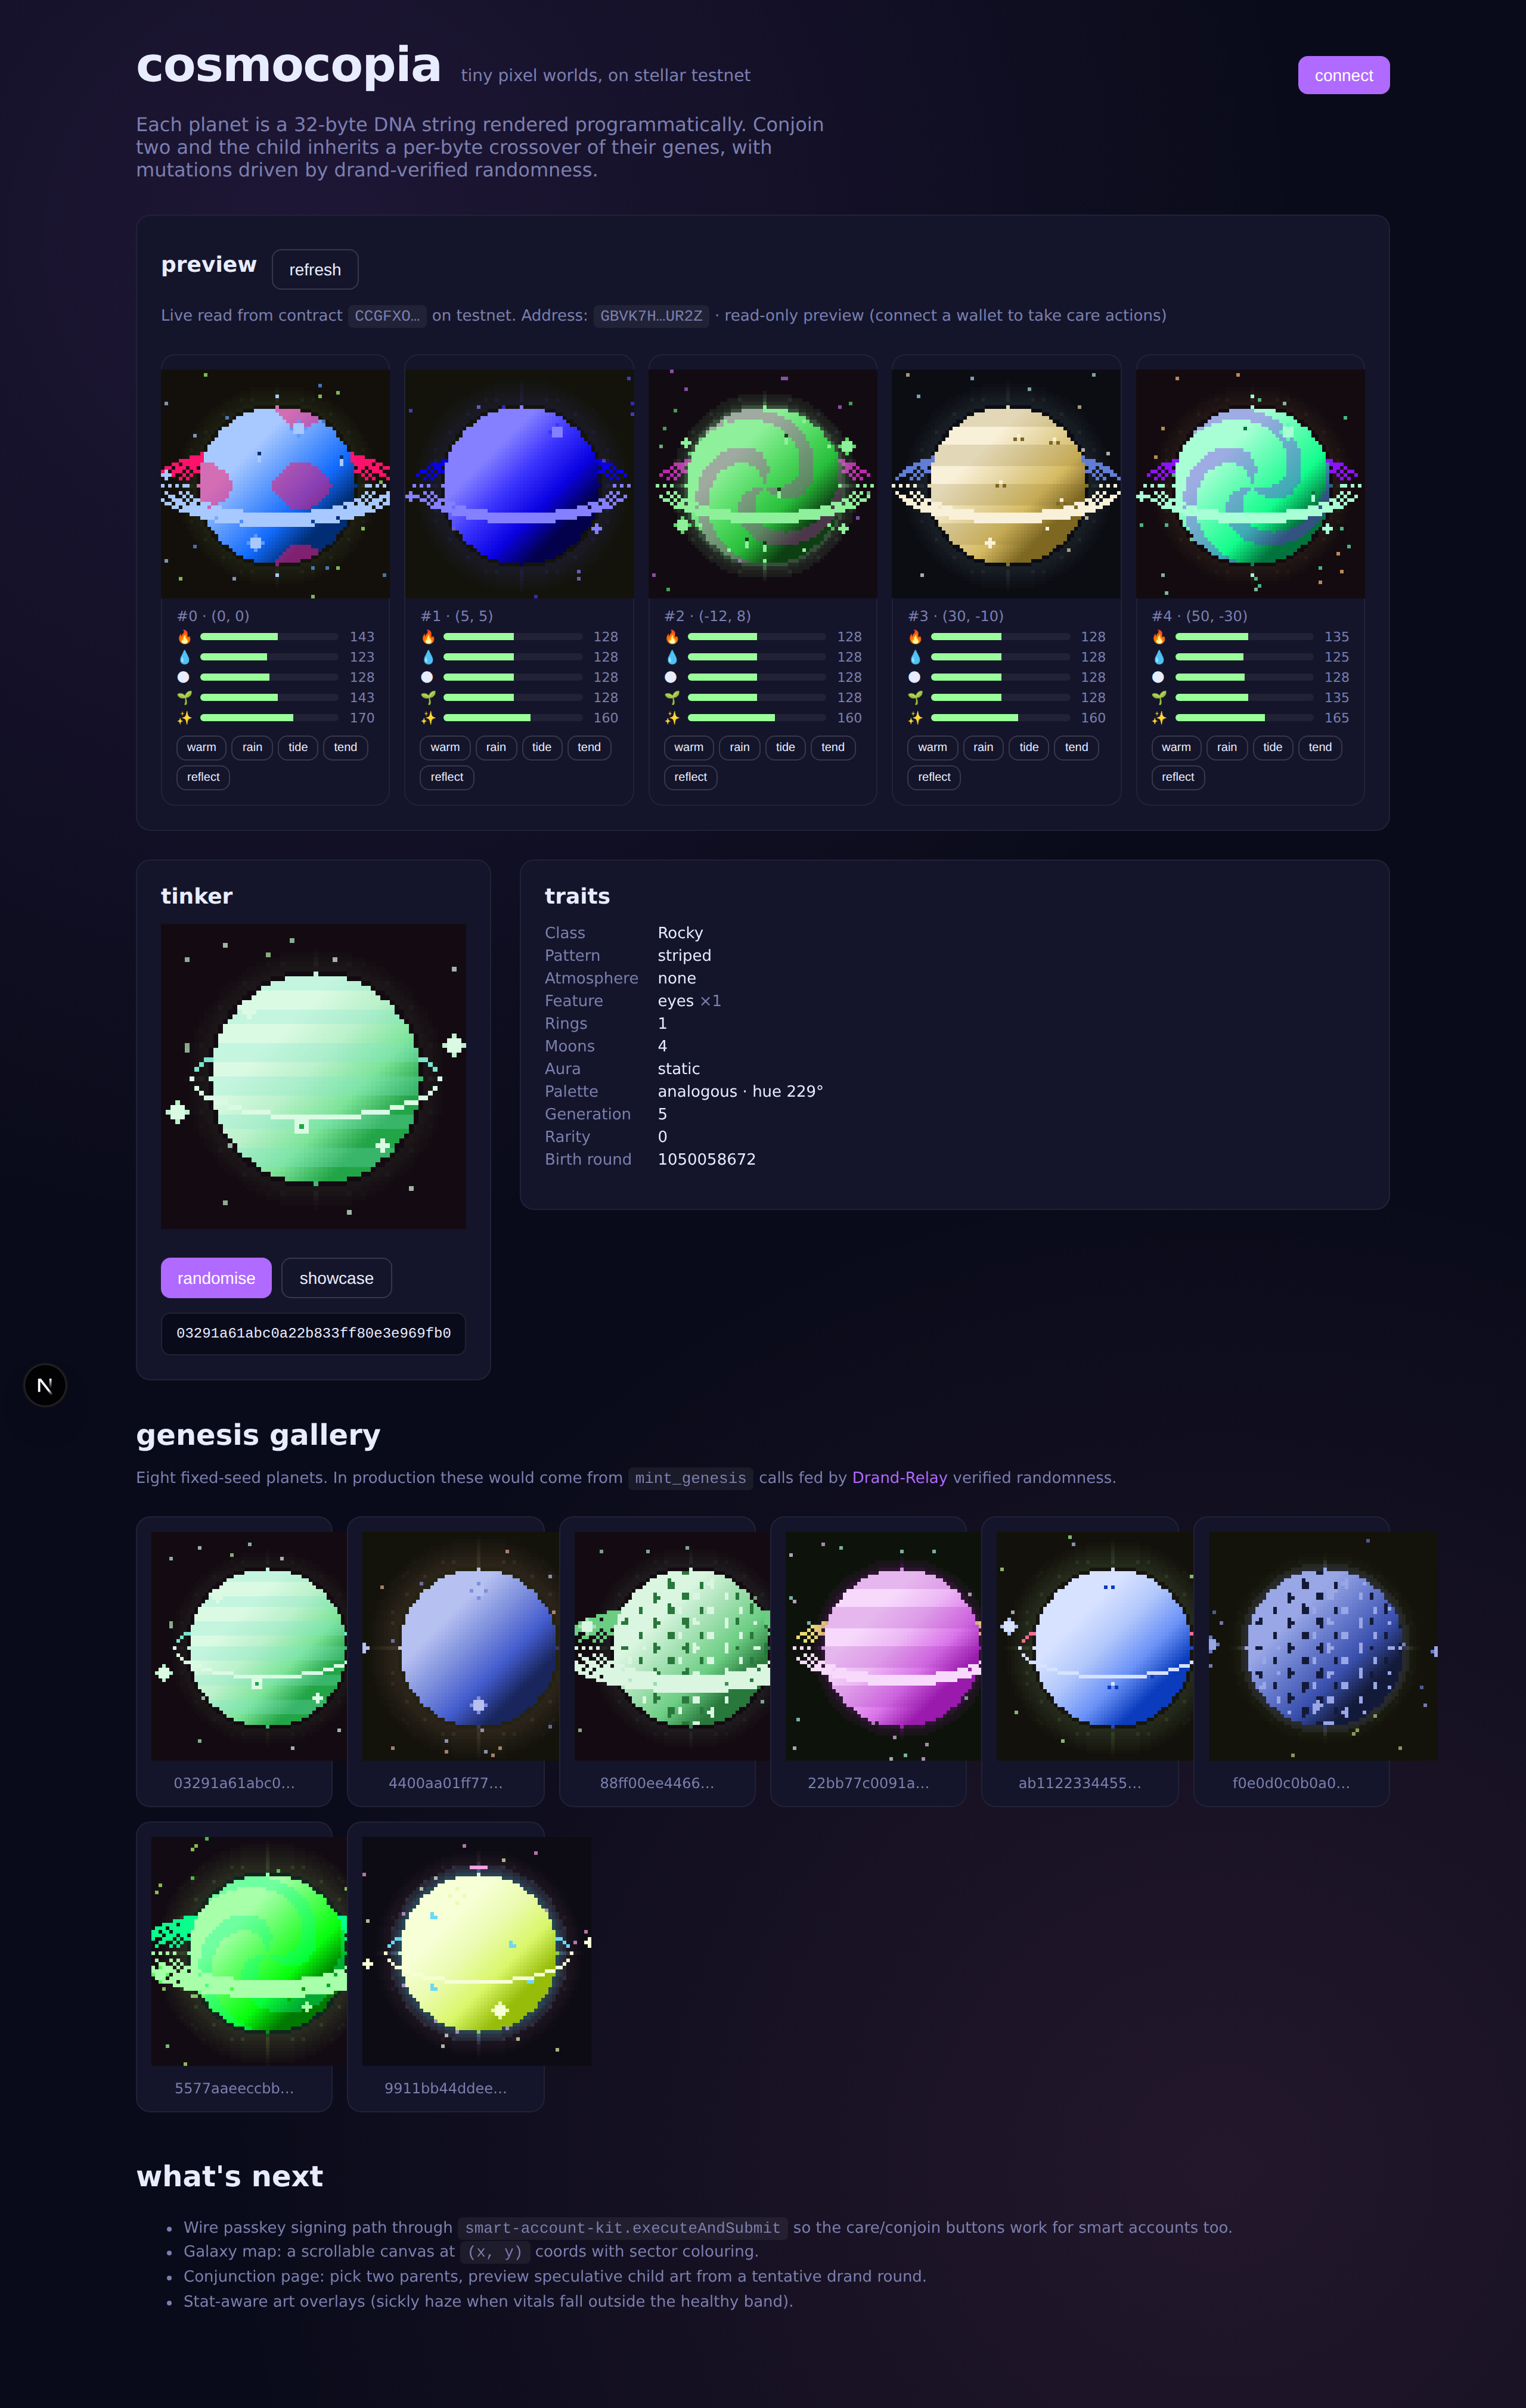
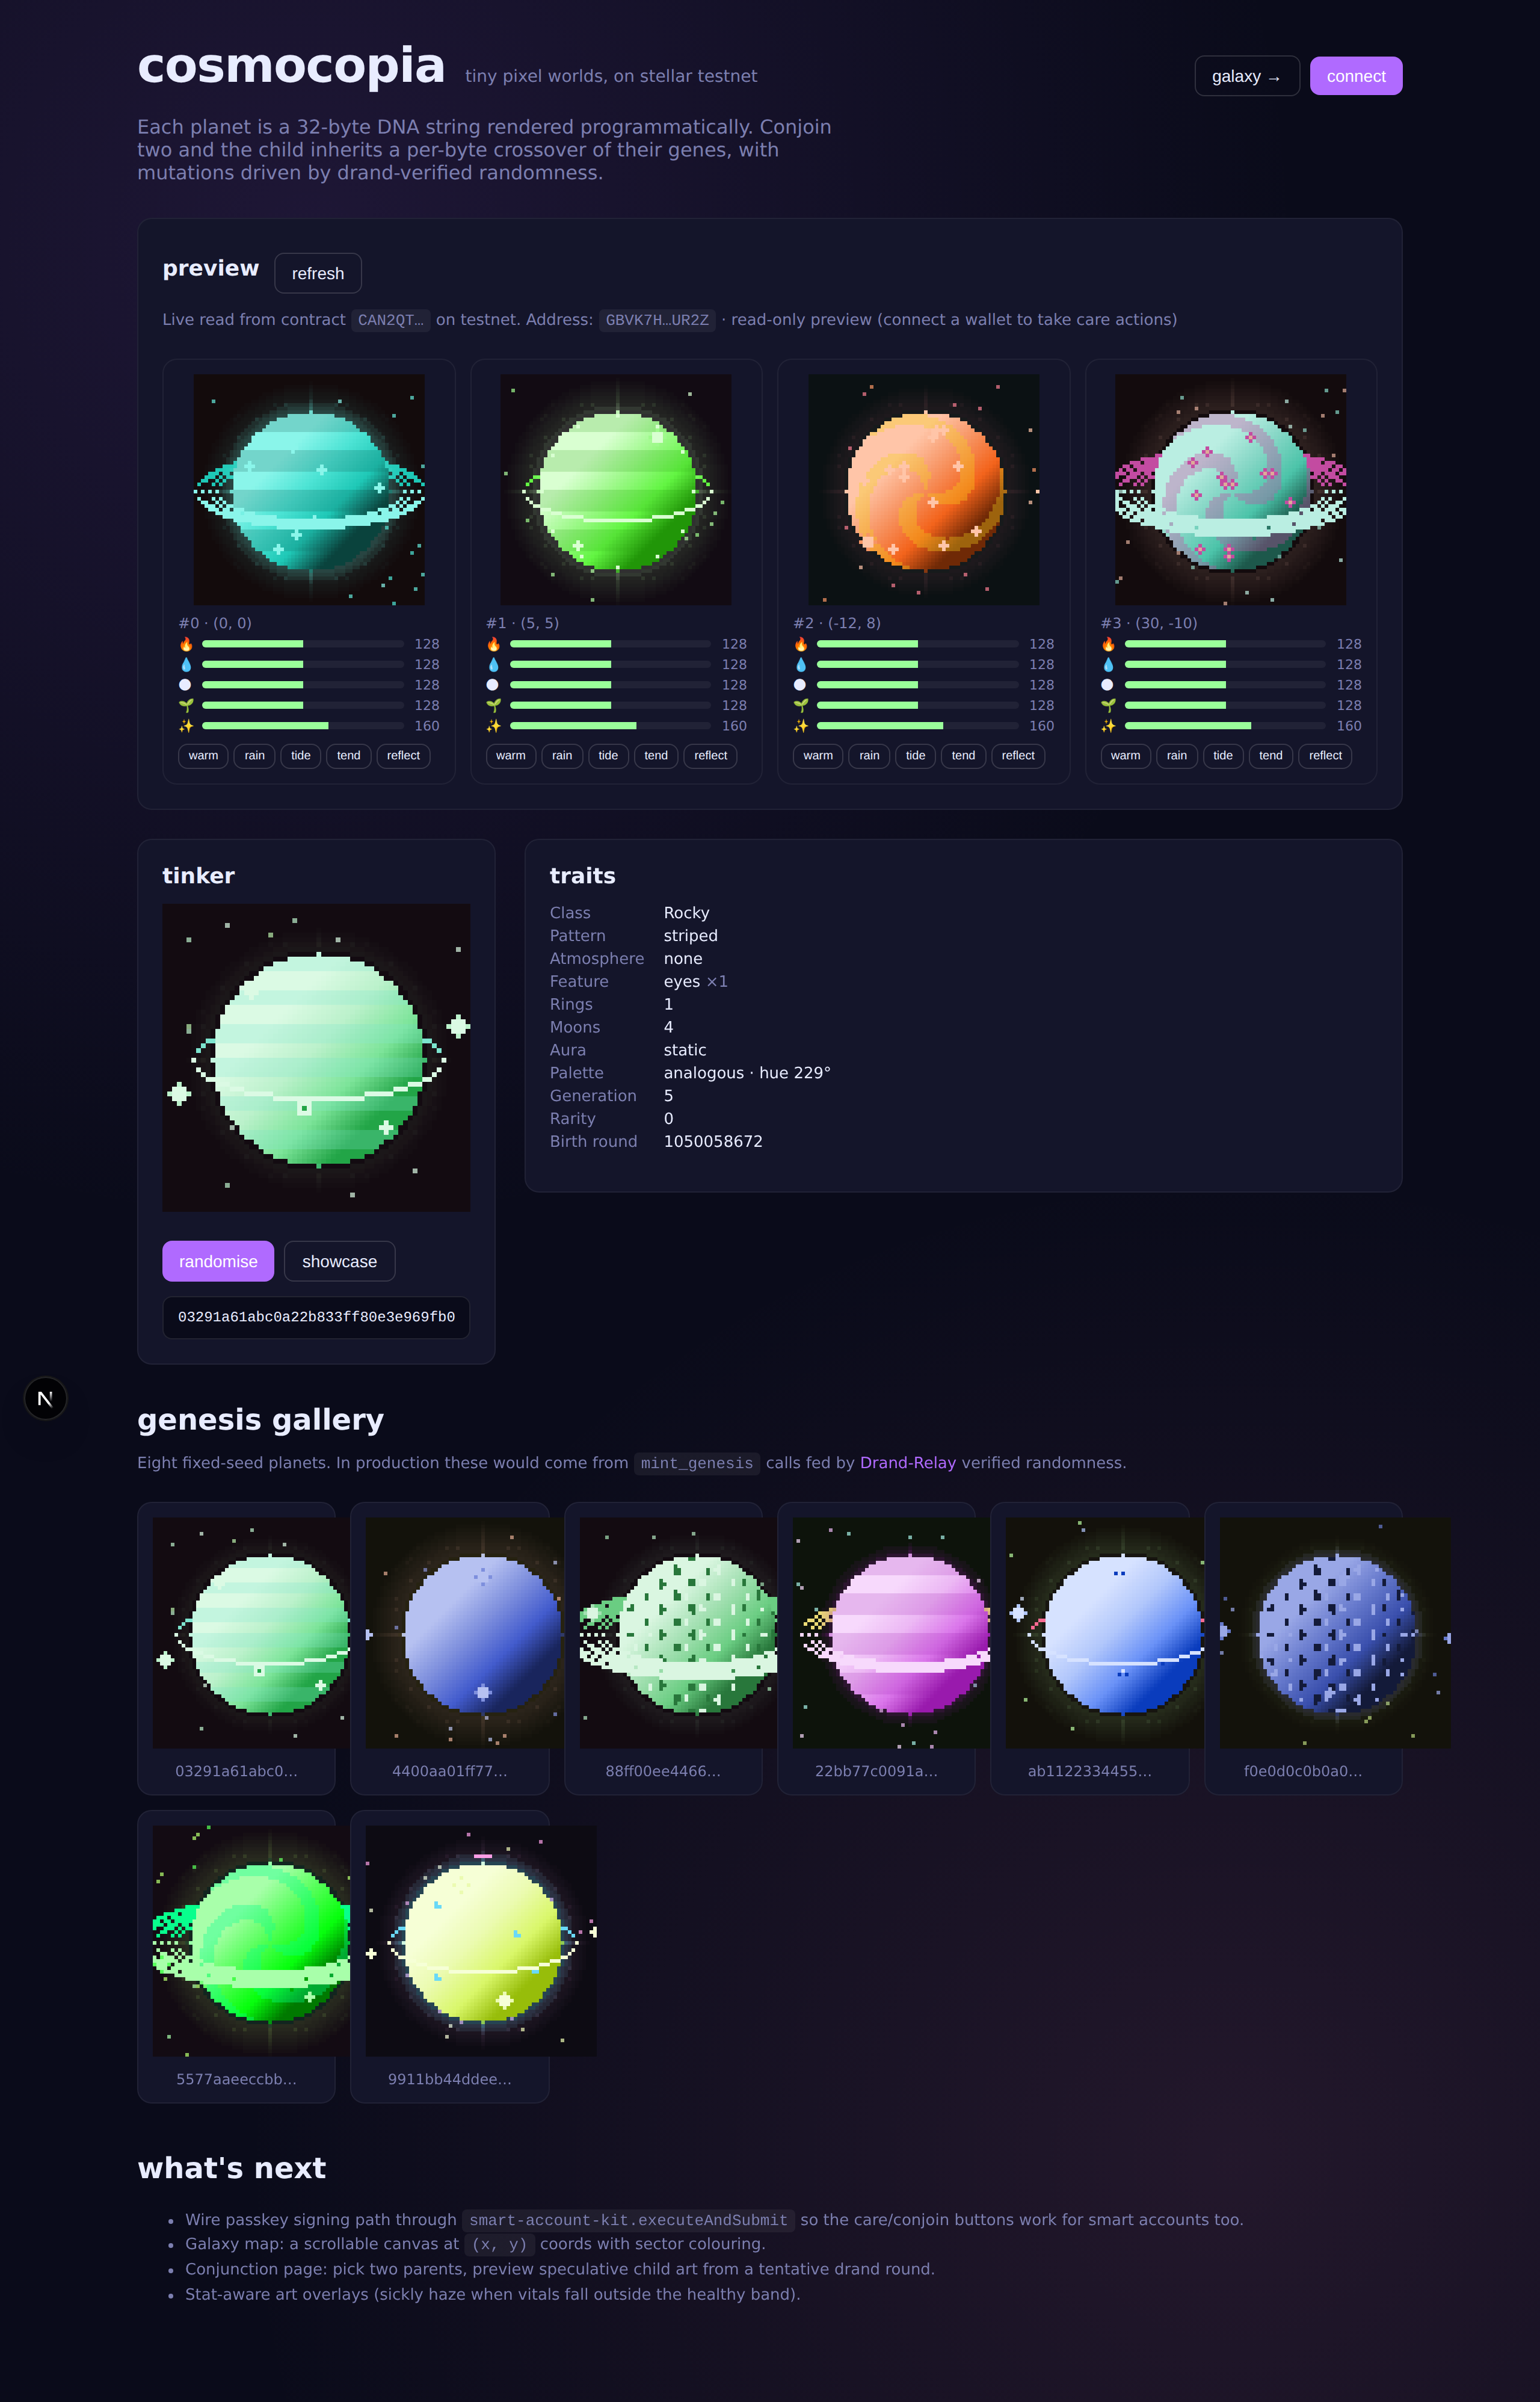
docs: update screenshots + README for commit-reveal cycle
- New docs/screenshot.png + docs/galaxy.png pulled live from
  CAN2QTAWXO3GR3H4H5HZRMAPPRAUBDBQHOB35373NHANAMQ47YKJPCPJ.
- README hero caption updated for the new contract.
- New 'Mint flow: commit-reveal' section explains the anti-grinding
  guarantee in plain language.
- New 'Live deployment' section pinning the current testnet contract
  address + test counts.
- Roadmap rewritten to reflect what's done vs what's still planned.
- Drand-Relay description updated (commit-reveal is no longer 'v2 todo'
  — it's the active flow).

diff --git a/README.md b/README.md
@@ -4,7 +4,7 @@
 
 ![Cosmocopia](docs/screenshot.png)
 
-*Live read from the testnet contract — the top "preview" row shows five planets owned by the deployer: tokens 0–3 are the genesis batch minted via Drand-Relay verified randomness, and #4 is the child born from conjoining tokens 0 and 1. Per-card vitals bars come from `vitals_of` on chain. Below that, the tinker panel renders any 32-byte DNA you paste, and the genesis gallery shows fixed-seed showcase planets that span the class space.*
+*Live read from the testnet contract — the top "preview" row shows four planets minted via the **commit-reveal flow** on testnet. Per-card vitals bars come from `vitals_of` on chain. Below that, the tinker panel renders any 32-byte DNA you paste, and the genesis gallery shows fixed-seed showcase planets that span the class space.*
 
 Cosmocopia is an Axie-style collection-of-creatures project, but instead of monsters they are **planets**: each a 96×96 pixel art world programmatically rendered from on-chain DNA, born from drand-verified randomness on Stellar/Soroban.
 
@@ -111,11 +111,29 @@ cosmocopia/
 
 ## External dependencies
 
-- **Drand-Relay** ([kaankacar/Drand-Relay](https://github.com/kaankacar/Drand-Relay)) — testnet verifier `CAESC7SC5EW5P2P3IM5Q7E64ZNDATVSN5F57NTCH5E7GJRPDM76KF7QM`. We call `latest()` for mints and conjunctions; commit-reveal scheduled for v2.
+- **Drand-Relay** ([kaankacar/Drand-Relay](https://github.com/kaankacar/Drand-Relay)) — testnet verifier `CAESC7SC5EW5P2P3IM5Q7E64ZNDATVSN5F57NTCH5E7GJRPDM76KF7QM`. Used as the source of fair, externally-verifiable randomness for every mint and conjunction.
 - **OpenZeppelin stellar-contracts** ([repo](https://github.com/OpenZeppelin/stellar-contracts)) — `stellar-tokens::non_fungible` for the NFT base, `stellar-access::ownable` for admin gating, `stellar-macros` for `#[only_owner]`.
 - **OpenZeppelin Contracts Wizard** — used to seed the initial NFT shell (Stellar tab on wizard.openzeppelin.com or the `@openzeppelin/wizard-stellar` npm package).
[1 lines of base64/hex data omitted]
 - **Stellar Wallets Kit** ([Creit-Tech/Stellar-Wallets-Kit](https://github.com/Creit-Tech/Stellar-Wallets-Kit), JSR package `@creit-tech/stellar-wallets-kit`) — modal adapter for Freighter, xBull, Albedo, Lobstr, Rabet, Hana, etc.
+
+## Mint flow: commit-reveal
+
+Every mint and conjunction is a **two-step commit-reveal** so the caller cannot peek the random seed before submitting:
+
+1. **Commit** — caller supplies `observed_round` (the latest drand round they can see). Contract stores `target_round = observed_round + 10` and stamps `commit_ledger = now`. Emits a `Committed` event with the commitment id.
+2. **Wait** — `MIN_REVEAL_DELAY_LEDGERS = 8` ledgers (~40 s, ~13 drand rounds).
+3. **Reveal** — anyone can call `reveal_genesis(id)` / `reveal_conjoin(id)`. Contract verifies the delay elapsed, fetches `drand.get(target_round)`, computes the DNA, mints, deletes the commitment.
+
+Because the reveal delay (13 drand rounds) is strictly larger than the lookahead (10 rounds), the target round's randomness is provably published *after* the commit landed — there is no round whose seed the user could have inspected at commit time to pick a favorable child. Lying about `observed_round` doesn't help: the reveal-time ledger gap is independent of the caller's claim.
+
+`submitConjoin` on the frontend orchestrates this in one call:
+
+```
+committing → waiting (polls reveal_after) → revealing → done
+```
+
+Pass an `onProgress` callback to surface phase to the UI; `submitCommitConjoin` and `submitRevealConjoin` are also exported as separate halves if you need to defer the reveal.
 
 ## Sign-in
 
@@ -139,13 +157,28 @@ bash scripts/transfer-planet.sh 1 CXXXXXXX...
 
 The care button triggers a WebAuthn prompt; on confirmation, Smart Account Kit signs the auth entry, re-simulates, and submits.
 
+## Live deployment
+
+Contract: [`CAN2QTAWXO3GR3H4H5HZRMAPPRAUBDBQHOB35373NHANAMQ47YKJPCPJ`](https://stellar.expert/explorer/testnet/contract/CAN2QTAWXO3GR3H4H5HZRMAPPRAUBDBQHOB35373NHANAMQ47YKJPCPJ) on Stellar testnet.
+
+Tests: **29 contract** (Rust, soroban-sdk testutils) + **17 frontend** (Vitest, mocked Client + wallet kits) + **16 art renderer** (Node test runner, deterministic + trait→pixel propagation). All green in CI.
+
 ## Roadmap
 
 - [x] Repo scaffold + design
-- [ ] Soroban workspace + planet contract MVP
-- [ ] Unit tests (DNA crossover determinism, stat decay, sector modifiers)
-- [ ] Pixel-art TS renderer with snapshot tests
-- [ ] Next.js frontend (Galaxy view, Planet detail, Conjunction)
-- [ ] Testnet deploy script + genesis mint
-- [ ] Commit-reveal mint for fairness (v2)
-- [ ] Stat-aware art overlays (sickly / blooming) (v2)
+- [x] Soroban workspace + planet contract
+- [x] Contract unit tests (29 — DNA crossover, auth gates, cooldown, healthy gate, commit-reveal flow)
+- [x] Pixel-art TS renderer (16 tests covering layout parity + trait→pixel propagation)
+- [x] Next.js frontend with dual-wallet sign-in
+- [x] Galaxy map at `/galaxy`
+- [x] Testnet deploy script + genesis seeding
+- [x] **Commit-reveal mint** — anti-grinding two-step flow with strict reveal-delay guarantee
+- [x] **NonFungibleEnumerable** — `total_supply` / `get_token_id` / `get_owner_token_id`, no more brute-force scanning
+- [x] **TTL extensions** on care/migrate/views/transfer (closes silent data loss after 30 d)
+- [x] **Admin/drand rotation** (`set_admin`, `set_drand`) + `ConfigChanged` event
+- [x] Security audit (multi-page, surfaced 24 findings; 12 closed in code, others tracked)
+- [x] CI — fmt, clippy, cargo test, art tests, vitest, web build, wasm size guard
+- [ ] Stat-aware art overlays (sickly / blooming)
+- [ ] Indexer-backed listing (events → Postgres) so the frontend scales past ~1k tokens
+- [ ] Smart-account-kit `executeAndSubmit` for cross-owner conjoin (currently single-owner only)
+- [ ] Mainnet deployment